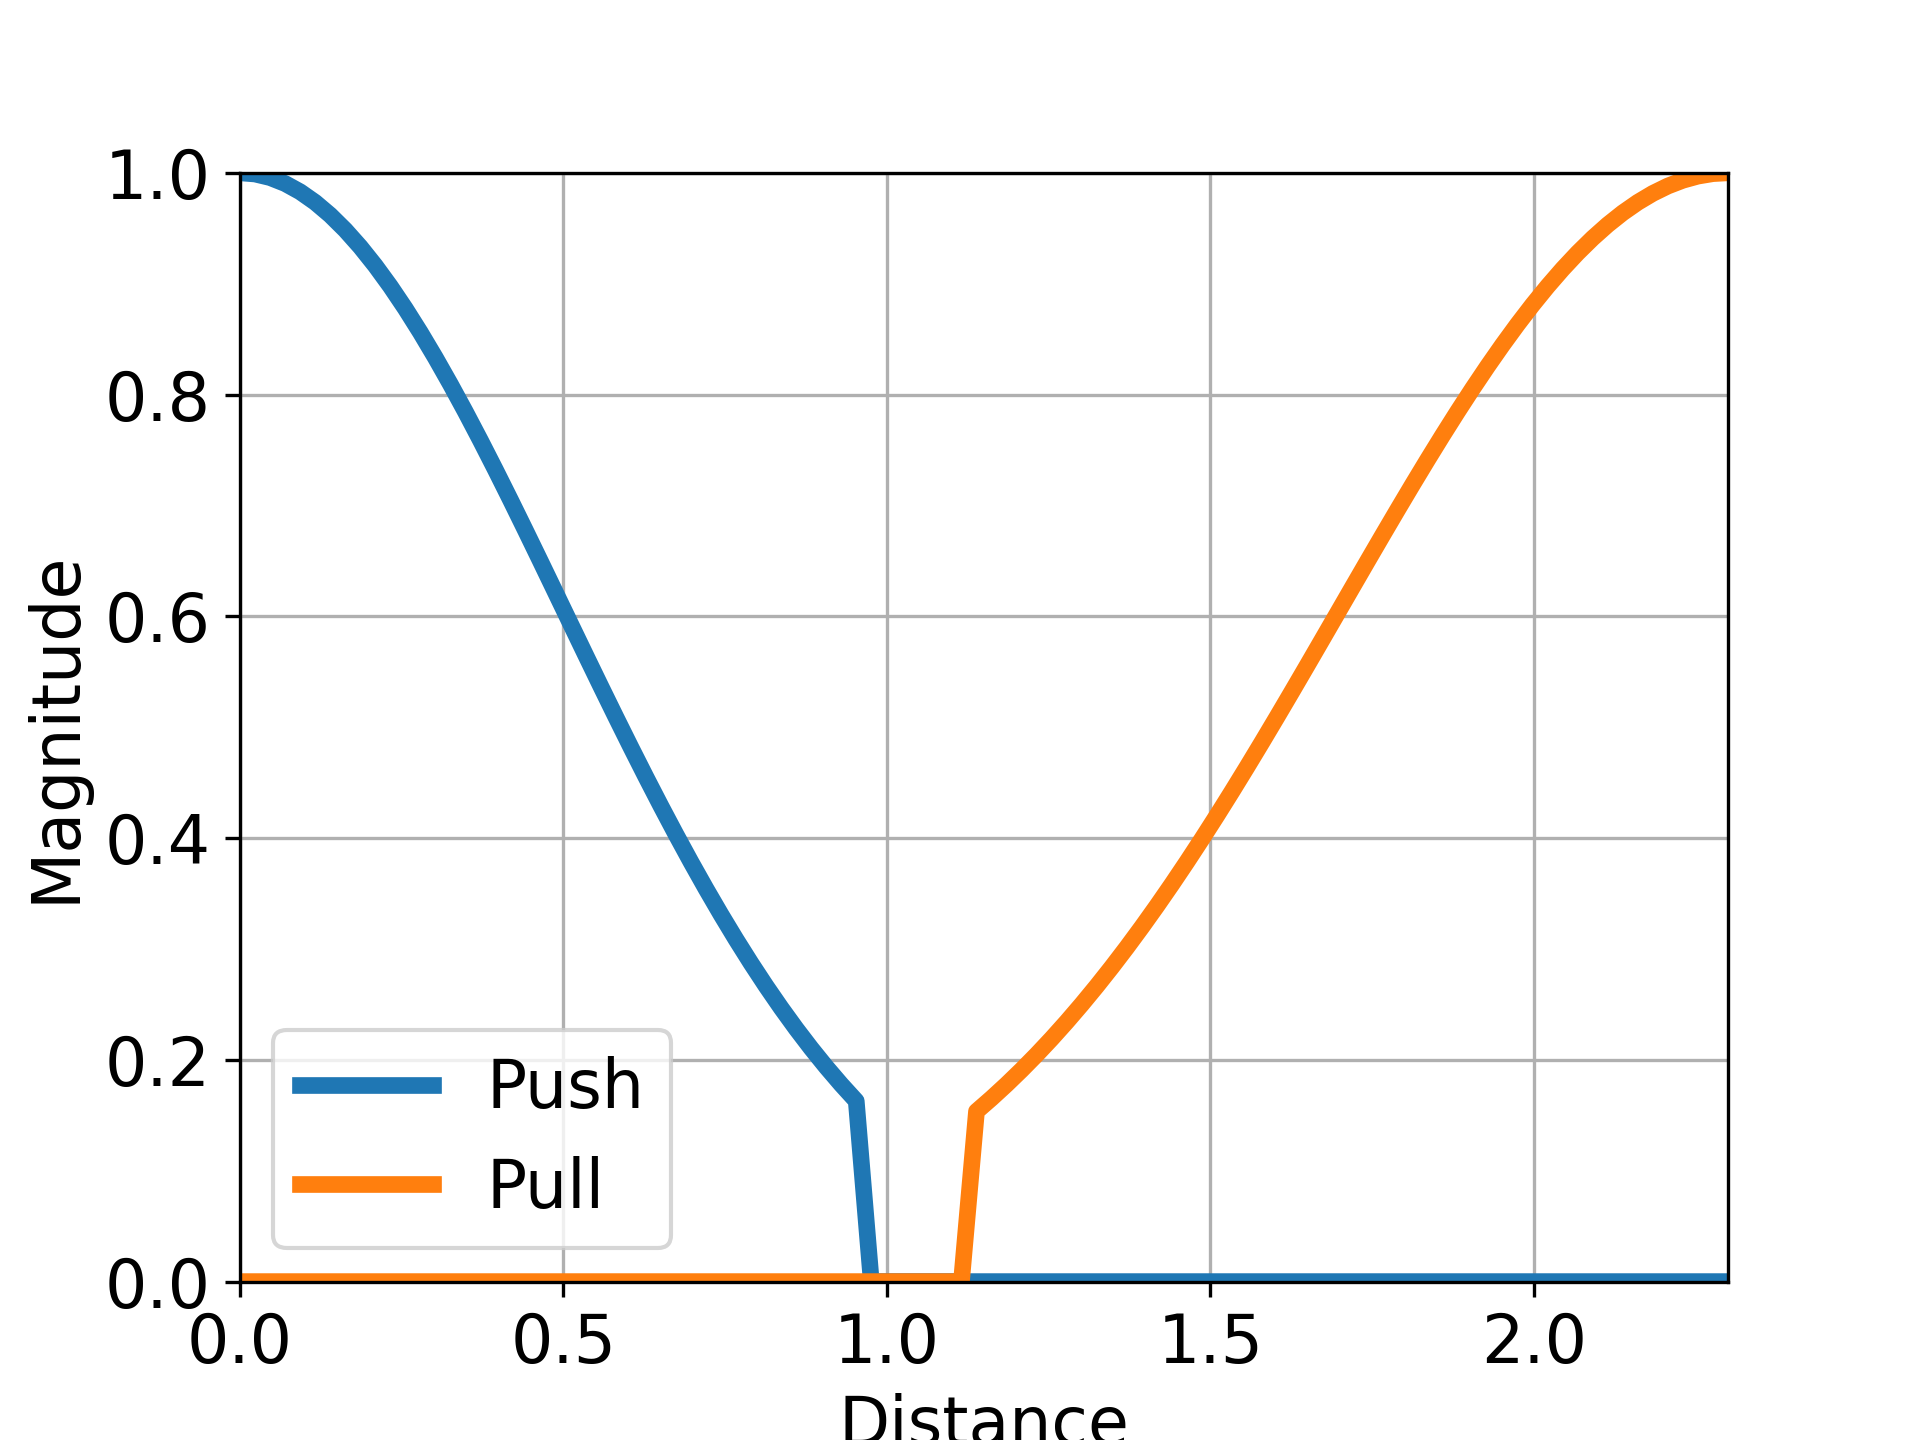
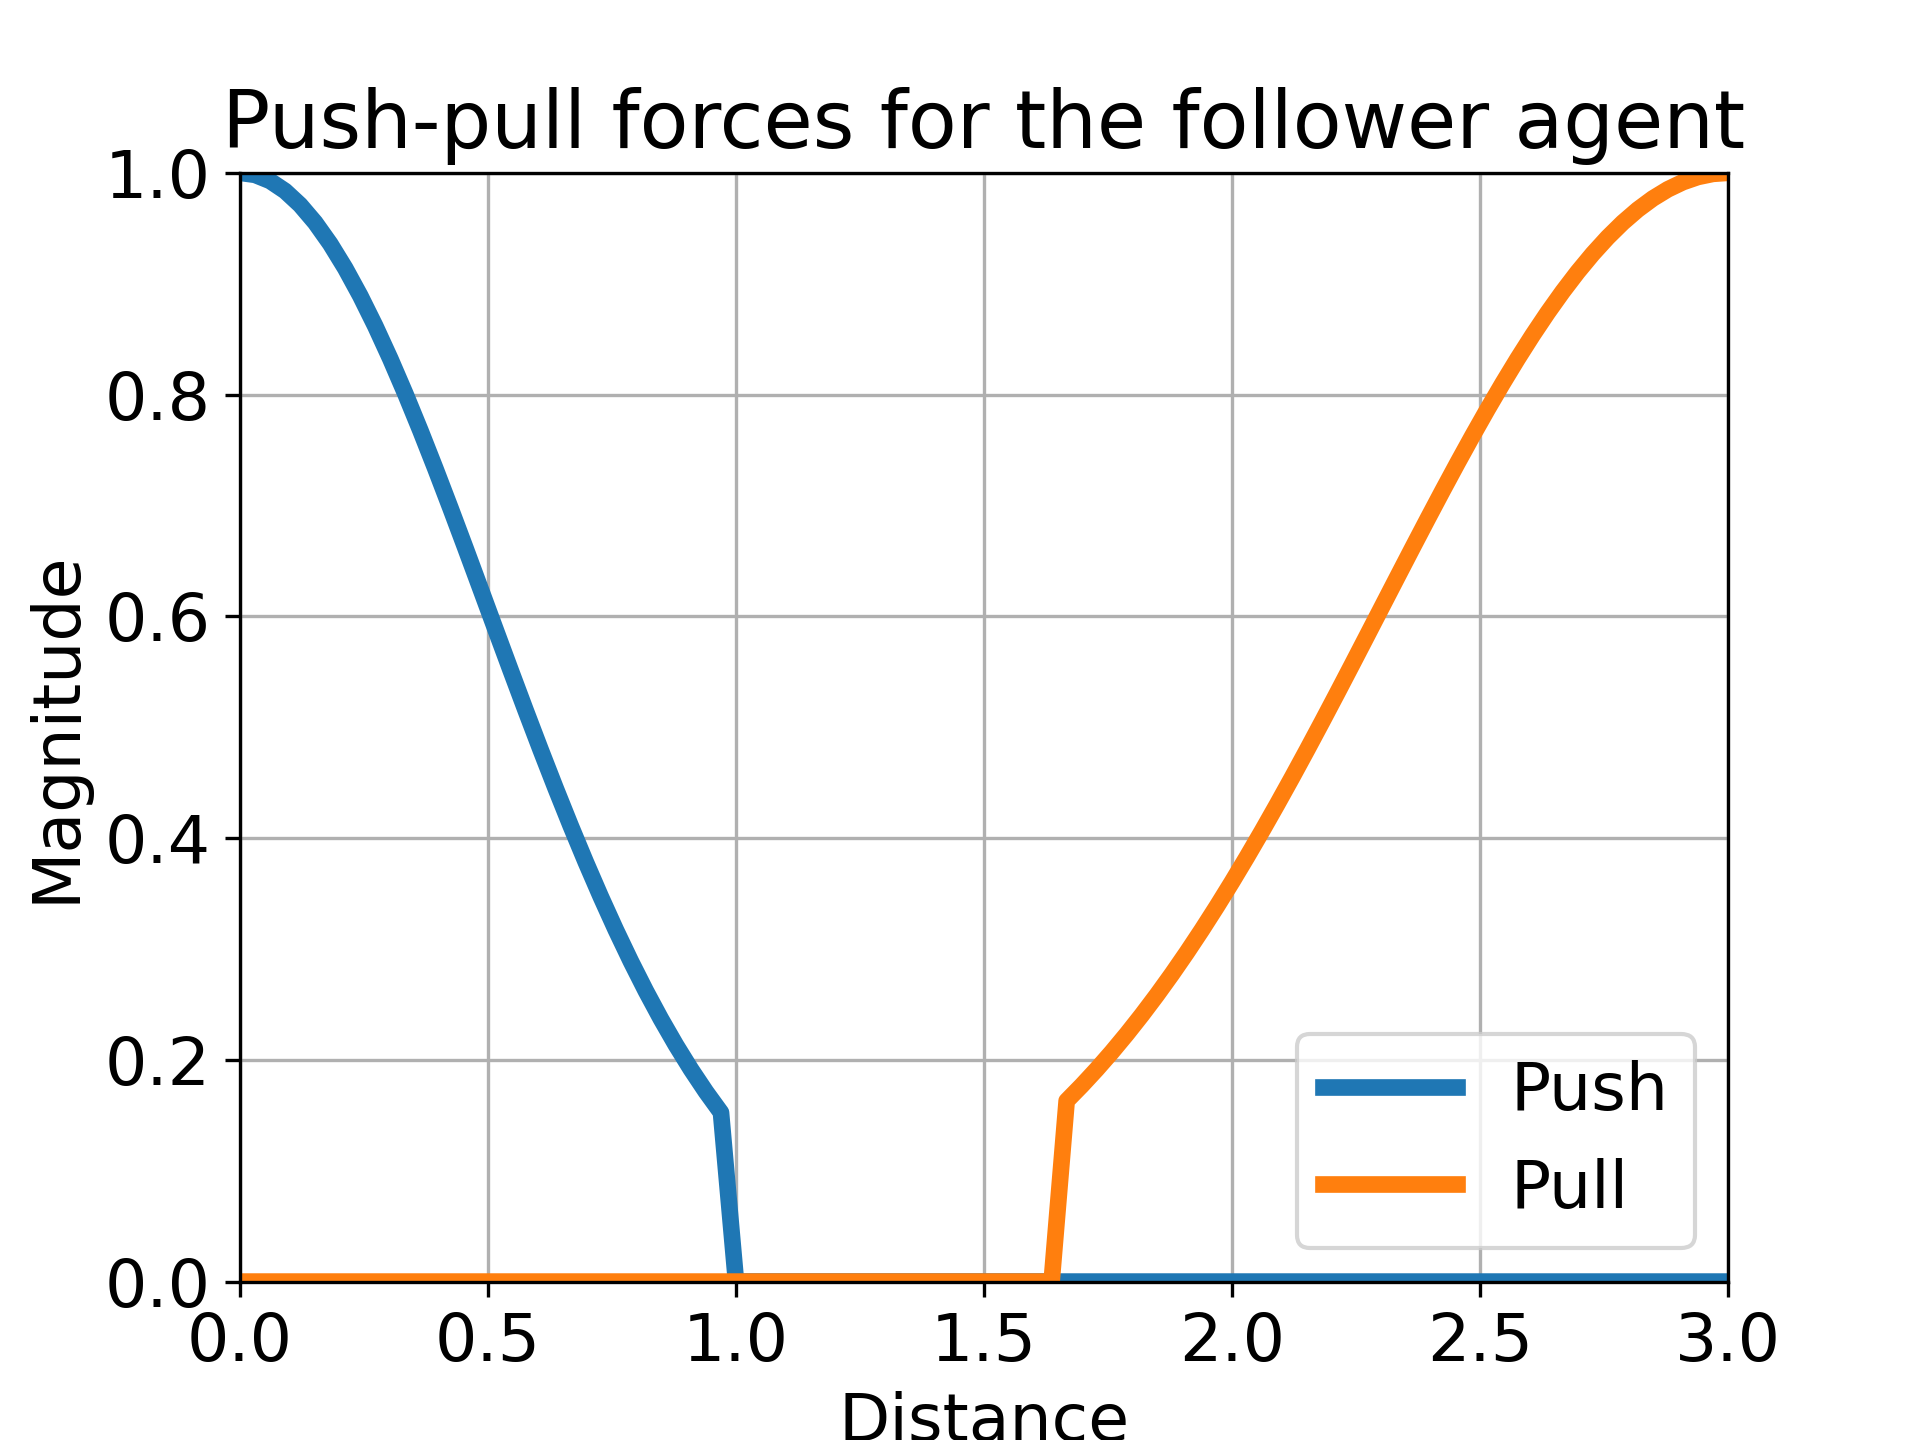
Added trajectory plots

diff --git a/proto/plots/follower_train_trj.py b/proto/plots/follower_train_trj.py
@@ -11,14 +11,15 @@ xf, yf = follower.T
 xl2, yl2 = leader2.T
 area = 6
 plt.scatter(xf[1:], yf[1:], s=area, label="Trajectory")
-plt.scatter(xf[0], yf[0], s=area * 2, label="Start")
-plt.scatter(xf[-1], yf[-1], s=200)
+plt.scatter(xf[0], yf[0], s=100, label="Start")
+plt.scatter(xf[-1], yf[-1], s=100, label="End")
 
 plt.scatter(xl2, yl2, s=area, label="Leader 2")
-
+plt.title('Training the follower agent')
 plt.ylim(ymin=-5, ymax=5)
 plt.xlim(xmin=-5, xmax=5)
-plt.scatter(-0.8, -0.7, label="Goal")
+plt.scatter(-0.8, -0.7, label="Goal", s=100)
 plt.grid()
 plt.legend()
+plt.savefig('follow_train_trj.png', transparent=False, dpi=300)
 plt.show()

diff --git a/proto/plots/leader_train_trj.py b/proto/plots/leader_train_trj.py
@@ -1,0 +1,20 @@
+import matplotlib.pyplot as plt
+import numpy as np
+
+from utils import readAndClean, createPathToLogs
+
+leader = readAndClean(createPathToLogs('leader-train.csv'))
+xl, yl = leader.T
+area = 6
+plt.scatter(xl[1:], yl[1:], s=area, label="Trajectory")
+plt.scatter(xl[0], yl[0], s=100, label="Start")
+plt.scatter(xl[-1], yl[-1], s=100)
+
+plt.title('Training the leader agent')
+plt.ylim(ymin=-5, ymax=5)
+plt.xlim(xmin=-5, xmax=5)
+plt.scatter(2, 2.3,s=100, label="Goal")
+plt.grid()
+plt.legend()
+plt.savefig('leader_train_trj.png', transparent=False, dpi=300)
+plt.show()

diff --git a/proto/plots/follow_swarm_trj.py b/proto/plots/follow_swarm_trj.py
@@ -24,7 +24,7 @@ leader = readAndClean(createPathToLogs('leaderA.csv'))
 xl, yl = leader.T
 plt.scatter(xl[1], yl[1], c=leaderStartColor, s=area * 10)
 plt.scatter(xl, yl, s=area,c=leaderColor, label="Leader")
-
+plt.title('1 leader, 9 followers')
 plt.ylim(ymin=-5, ymax=5)
 plt.xlim(xmin=-5, xmax=5)
 plt.scatter(0, -2, s=200,c=goalColor, label="Goal")

diff --git a/proto/plots/plot_push_pull.py b/proto/plots/plot_push_pull.py
@@ -35,10 +35,11 @@ plt.xlabel("Distance")
 plt.ylabel("Magnitude")
 plt.ylim(ymin=0, ymax=1)
 plt.xlim(xmin=0, xmax=3)
+plt.title('Push-pull forces for the follower agent')
 
 plt.grid()
 plt.legend()
 
-plt.savefig('pushpull.png', transparent=True, dpi=300)
+plt.savefig('pushpull.png', transparent=False, dpi=300)
 plt.show()
 
